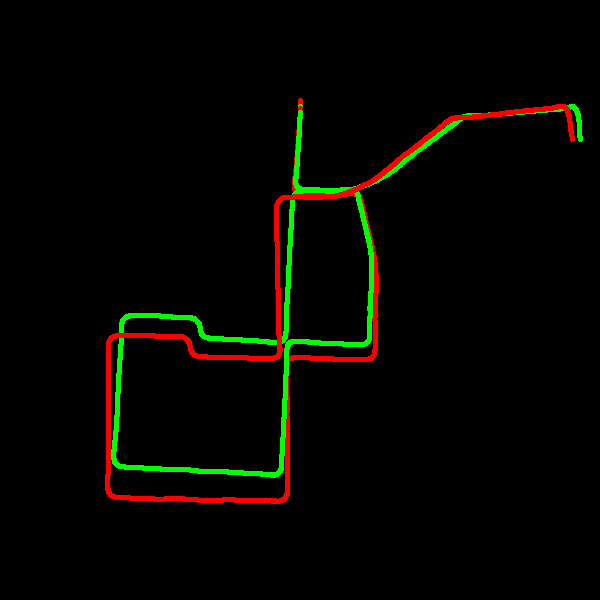
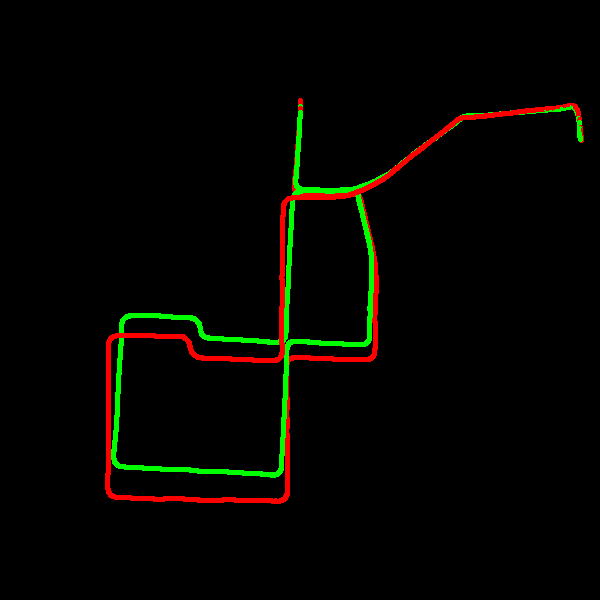
减少tacking中g2o优化次数

diff --git a/src/visual_odometry.cpp b/src/visual_odometry.cpp
@@ -106,7 +106,6 @@ namespace myslam
 
         // 可以把keypoints_curr过滤好之后在计算描述子，这样，计算量小了，描述子也不用过滤了
         orb_->compute(curr_->img_left_, keypoints_curr_, descriptors_curr_);
-
     }
 
     void VisualOdometry::featrureMatching() {
@@ -143,20 +142,6 @@ namespace myslam
             pts3d.push_back(pts_3d_ref_[match.queryIdx]);
             pts2d.push_back(keypoints_curr_[match.trainIdx].pt);
             pts2d_r.push_back(keypoints_curr_right_[match.trainIdx].pt);
-
-//            cv::Mat left_img_show, right_img_show;
-//            left_matched_kps.clear();
-//            right_mathed_kps.clear();
-//            left_matched_kps.push_back(keypoints_curr_[match.trainIdx]);
-//            right_mathed_kps.push_back(keypoints_curr_right_[match.trainIdx]);
-//
-//            cv::drawKeypoints(curr_->img_left_, left_matched_kps, left_img_show);
-//            cv::drawKeypoints(curr_->img_right_, right_mathed_kps, right_img_show);
-//
-//            cv::imshow("left matched kps", left_img_show);
-//            cv::imshow("right matched kps", right_img_show);
-//
-//            cv::waitKey(0);
         }
 
 
@@ -173,10 +158,8 @@ namespace myslam
         );
 
 
-        cout << "优化前　rotation: \n" << T_c_r_esti_.rotation_matrix() << "\n translation: \n" << T_c_r_esti_.translation().transpose() << endl;
-
         //　定义块求解器类型
-        typedef g2o::BlockSolver<g2o::BlockSolverTraits<6,2>> Block;
+        typedef g2o::BlockSolver<g2o::BlockSolverTraits<6,3>> Block;
         // 选择块求解器所使用的求解方式，稠密还是稀疏
         Block::LinearSolverType* linearSolver = new g2o::LinearSolverDense<Block::PoseMatrixType>();
         // 实例化一个块求解器指针
@@ -198,15 +181,13 @@ namespace myslam
         pose->setId(0);
         // 设置优化初始值
         pose->setEstimate(g2o::SE3Quat(T_c_r_esti_.rotation_matrix(), T_c_r_esti_.translation()));
-//        pose->setEstimate(g2o::SE3Quat(Eigen::Matrix3d::Identity(), Eigen::Vector3d::Zero()));
 
         // 将该点加入优化问题中
         optimizer.addVertex(pose);
 
-//         添加边
+        // 添加边
         for (int i = 0; i < inliers.rows; i++) {
             // 创建边
-//            EdgeProjXYZ2UVPoseOnly* edge = new EdgeProjXYZ2UVPoseOnly();
             EdgeProjXYZ2SteroUVPoseOnly* edge = new EdgeProjXYZ2SteroUVPoseOnly();
             edge->setId(i);
             edge->setVertex(0, pose);
@@ -214,56 +195,20 @@ namespace myslam
             int index = inliers.at<int>(i, 0);
 
             edge->setMeasurement(Eigen::Vector3d(pts2d[index].x, pts2d[index].y, pts2d_r[index].x));
-//            edge->setMeasurement(Eigen::Vector2d(pts2d[index].x, pts2d[index].y));
             edge->camera_ = curr_->camera_.get();
             edge->point_ = Eigen::Vector3d(pts3d[index].x, pts3d[index].y, pts3d[index].z);
             edge->setInformation(Eigen::Matrix3d::Identity());
-//            edge->setInformation(Eigen::Matrix2d::Identity());
-
-//            cout << "左视图特征点坐标：" << pts2d[index].x << " " << pts2d[index].y << endl;
-//            cout << "右视图特征点坐标：" << pts2d_r[index].x << " " << pts2d_r[index].y << endl;
 
             optimizer.addEdge(edge);
         }
 
-//        double fx = curr_->camera_->fx_;
-//        double fy = curr_->camera_->fy_;
-//        double cx = curr_->camera_->cx_;
-//        double cy = curr_->camera_->cy_;
-//        double bf = curr_->camera_->base_line_;
-//
-//
-//        for (int i = 0; i < inliers.rows; i++) {
-//            // 创建边
-//            EdgeStereoSE3ProjectXYZOnlyPose* edge = new EdgeStereoSE3ProjectXYZOnlyPose();
-//            edge->setId(i);
-//            edge->setVertex(0, pose);
-//
-//            int index = inliers.at<int>(i, 0);
-//
-//            edge->setMeasurement(Eigen::Vector3d(pts2d[index].x, pts2d[index].y, pts2d_r[index].x));
-//
-//            edge->fx = fx;
-//            edge->fy = fy;
-//            edge->cx = cx;
-//            edge->cy = cy;
-//            edge->bf = bf;
-//            edge->Xw = Eigen::Vector3d(pts3d[index].x, pts3d[index].y, pts3d[index].z);
-//
-//            edge->setInformation(Eigen::Matrix3d::Identity());
-//
-//            if(edge->isDepthPositive())
-//            optimizer.addEdge(edge);
-//        }
 
         //　开始优化
-        optimizer.setVerbose(true);
+        optimizer.setVerbose(false);
         optimizer.initializeOptimization();
-        optimizer.optimize(10);
+        optimizer.optimize(3);
 
         T_c_r_esti_ = Sophus::SE3(pose->estimate().rotation(), pose->estimate().translation());
-        cout << "优化后　rotation: \n" << T_c_r_esti_.rotation_matrix() << "\n translation: \n" << T_c_r_esti_.translation().transpose() << endl;
-//        cv::waitKey(0);
 
     }
 

diff --git a/test/run_vo.cpp b/test/run_vo.cpp
@@ -100,7 +100,7 @@ int main ( int argc, char** argv )
     }
 
     ground_truth_pose.close();
-    cv::imwrite("./v1.1.png", traj);
+    cv::imwrite("./v1.1-no-g2o.png", traj);
 
     return 0;
 }
